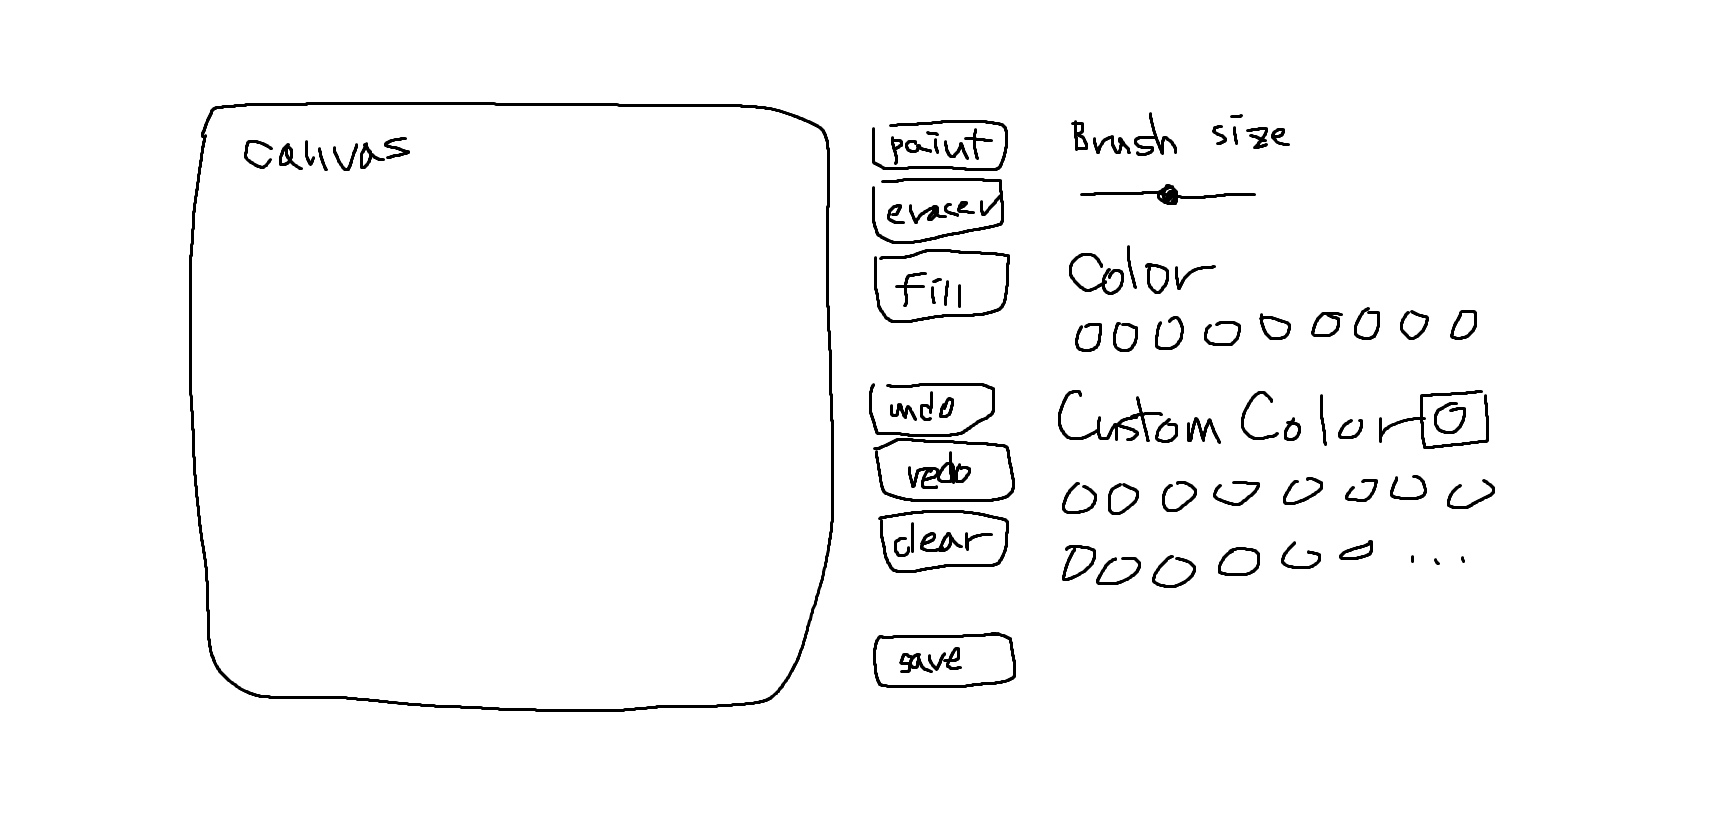
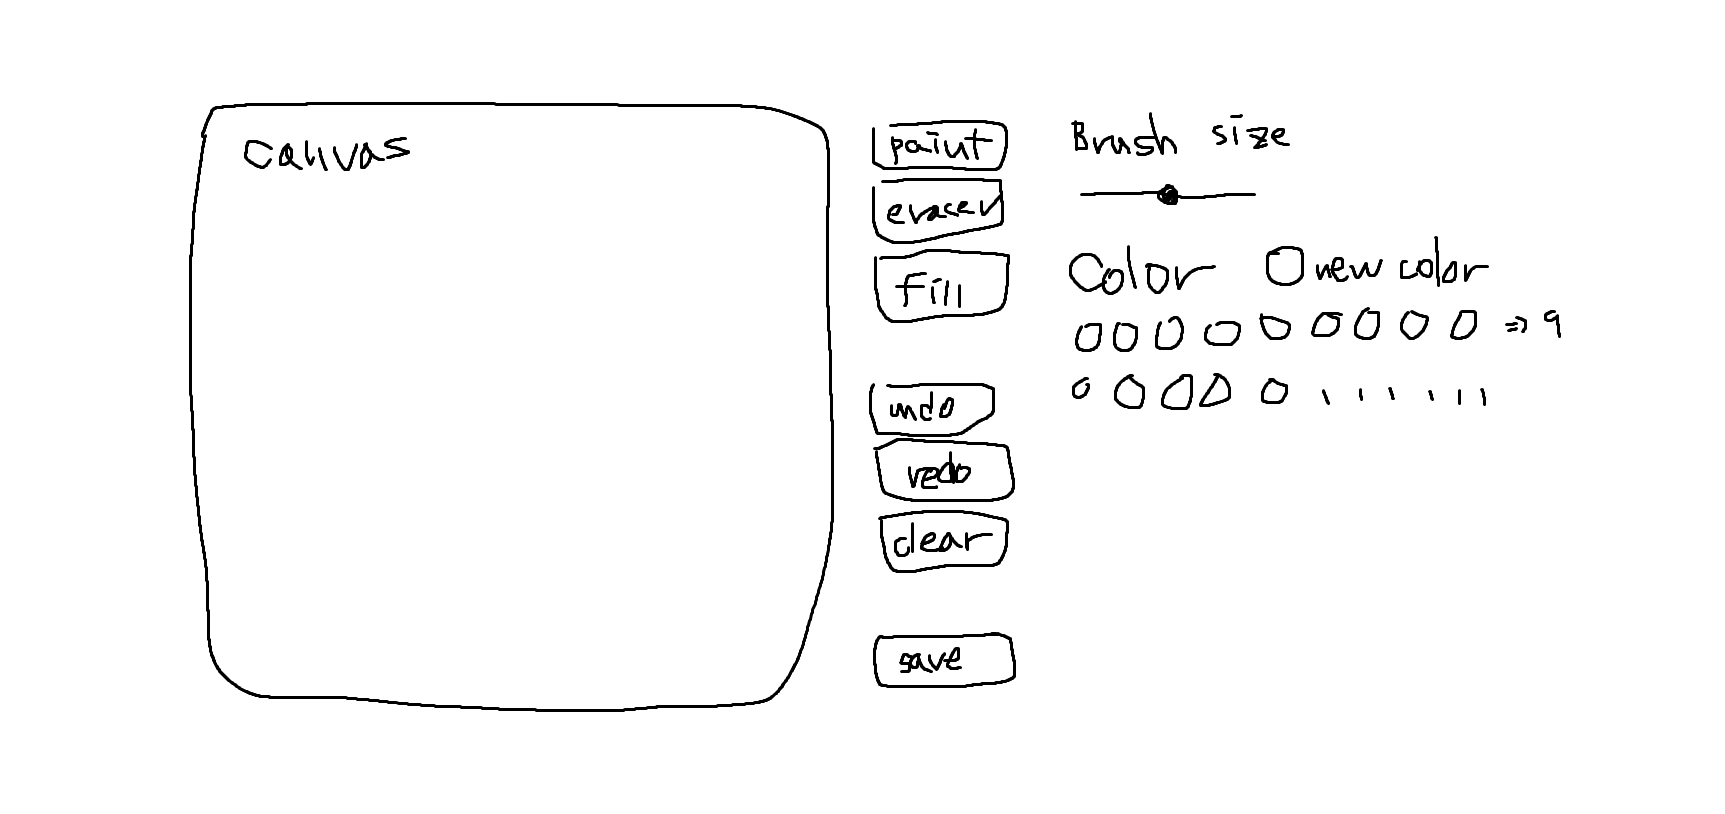
2021-08-31

diff --git a/index.html b/index.html
@@ -8,66 +8,77 @@
     <title>Paint Brush</title>
   </head>
   <body>
-    <canvas id="jsCanvas" class="canvas"></canvas>
-    <div class="controls">
-      <div class="controls_range">
-        <input
-          type="range"
-          id="jsRange"
-          min="0.1"
-          max="10"
-          value="5"
-          step="0.1"
-        />
-      </div>
-      <div class="controls_btns">
-        <button id="jsPaint">Paint</button>
-        <button id="jsEraser">Eraser</button>
-        <button id="jsFill">Fill</button>
-        <button id="jsSave">Save</button>
-        <button id="jsUndo">Undo</button>
-        <button id="jsRedo">Redo</button>
-        <button id="jsClear">Clear</button>
-      </div>
-      <div class="controls_colors" id="jsColors">
-        <div
-          class="controls_color jsColor"
-          style="background-color: #2c2c2c"
-        ></div>
-        <div
-          class="controls_color jsColor"
-          style="background-color: white"
-        ></div>
-        <div
-          class="controls_color jsColor"
-          style="background-color: #ff3b30"
-        ></div>
-        <div
-          class="controls_color jsColor"
-          style="background-color: #ff9500"
-        ></div>
-        <div
-          class="controls_color jsColor"
-          style="background-color: #ffcc00"
-        ></div>
-        <div
-          class="controls_color jsColor"
-          style="background-color: #4cd963"
-        ></div>
-        <div
-          class="controls_color jsColor"
-          style="background-color: #5ac8fa"
-        ></div>
-        <div
-          class="controls_color jsColor"
-          style="background-color: #0579ff"
-        ></div>
-        <div
-          class="controls_color jsColor"
-          style="background-color: #5856d6"
-        ></div>
-      </div>
-    </div>
+    <main>
+      <canvas id="jsCanvas" class="canvas"></canvas>
+      <article class="controls">
+        <section class="controls_btns">
+          <button id="jsPaint">Paint</button>
+          <button id="jsEraser">Eraser</button>
+          <button id="jsFill">Fill</button>
+          <button id="jsSave">Save</button>
+          <button id="jsUndo">Undo</button>
+          <button id="jsRedo">Redo</button>
+          <button id="jsClear">Clear</button>
+        </section>
+        <section class="controls_range">
+          <p>Brush size: 5.0</p>
+          <input
+            type="range"
+            id="jsRange"
+            min="0.1"
+            max="10"
+            value="5"
+            step="0.1"
+          />
+        </section>
+        <section class="controls_colors_section">
+          <p>Color</p>
+          <form id="color_picker_form">
+            <label>NEW color</label>
+            <input id="color_picker" type="color" />
+            <input id="color_picker_btn" type="submit" />
+          </form>
+          <div class="controls_colors" id="jsColors">
+            <div
+              class="controls_color jsColor"
+              style="background-color: #2c2c2c"
+            ></div>
+            <div
+              class="controls_color jsColor"
+              style="background-color: white"
+            ></div>
+            <div
+              class="controls_color jsColor"
+              style="background-color: #ff3b30"
+            ></div>
+            <div
+              class="controls_color jsColor"
+              style="background-color: #ff9500"
+            ></div>
+            <div
+              class="controls_color jsColor"
+              style="background-color: #ffcc00"
+            ></div>
+            <div
+              class="controls_color jsColor"
+              style="background-color: #4cd963"
+            ></div>
+            <div
+              class="controls_color jsColor"
+              style="background-color: #5ac8fa"
+            ></div>
+            <div
+              class="controls_color jsColor"
+              style="background-color: #0579ff"
+            ></div>
+            <div
+              class="controls_color jsColor"
+              style="background-color: #5856d6"
+            ></div>
+          </div>
+        </section>
+      </article>
+    </main>
     <script src="app.js"></script>
   </body>
 </html>

diff --git a/app.js b/app.js
@@ -5,6 +5,8 @@ let redoList = [];
 
 const canvas = document.getElementById("jsCanvas");
 const ctx = canvas.getContext("2d");
+const colorsDiv = document.getElementById("jsColors");
+const colorPickerForm = document.getElementById("color_picker_form");
 const colors = document.getElementsByClassName("jsColor");
 const range = document.getElementById("jsRange");
 const paintBtn = document.getElementById("jsPaint")
@@ -142,6 +144,28 @@ function handleClearClick() {
     ctx.restore();
 }
 
+function handleDeleteColor(event) {
+    const color = event.path[1];
+    color.remove();
+}
+
+function handleColorPickerSubmit(event) {
+    event.preventDefault();
+    const newColor = document.createElement("div");
+    const deleteBtn = document.createElement("div");
+    const colorPicker = document.getElementById("color_picker");
+    const color = colorPicker.value;
+    newColor.classList.add("controls_color");
+    newColor.classList.add("jsColor");
+    newColor.style.backgroundColor = color;
+    newColor.addEventListener("click", handleColorClick);
+    deleteBtn.innerText = "❌";
+    deleteBtn.classList.add(".new_color_delete_btn");
+    deleteBtn.addEventListener("click", handleDeleteColor);
+    newColor.appendChild(deleteBtn);
+    colorsDiv.appendChild(newColor);
+}
+
 if (canvas) {
     canvas.addEventListener("mousemove", onMouseMove);
     canvas.addEventListener("mousedown", startPainting);
@@ -149,6 +173,10 @@ if (canvas) {
     canvas.addEventListener("mouseleave", stopPainting);
     canvas.addEventListener("mousedown", handleCanvasFilling);
     canvas.addEventListener("contextmenu", handleCM);
+}
+
+if (colorPickerForm) {
+    colorPickerForm.addEventListener("submit", handleColorPickerSubmit);
 }
 
 if (colors) {

diff --git a/style.css b/style.css
@@ -10,6 +10,11 @@ body {
   padding: 30px 0;
 }
 
+main {
+  display: flex;
+  flex-direction: row;
+}
+
 .canvas {
   width: 700px;
   height: 700px;
@@ -21,8 +26,9 @@ body {
 
 .controls {
   margin-top: 20px;
-  display: flex;
-  flex-direction: column;
+  display: grid;
+  grid-template-columns: 1fr 9fr;
+  grid-template-rows: 2fr 5fr;
   align-items: center;
 }
 .controls .controls_range {
@@ -34,7 +40,8 @@ body {
 }
 
 .controls .controls_btns {
-  margin-bottom: 20px;
+  display: flex;
+  flex-direction: column;
 }
 .controls_btns button {
   all: unset;
@@ -58,11 +65,22 @@ body {
 .controls .controls_colors {
   display: flex;
   flex-direction: row;
+  flex-wrap: wrap;
+  gap: 0;
+  width: 450px;
 }
-.controls_colors .controls_color {
+
+.controls_color {
   width: 50px;
   height: 50px;
   border-radius: 25px;
   cursor: pointer;
   box-shadow: 0 4px 6px rgba(50, 50, 93, 0.11), 0 1px 3px rgba(0, 0, 0, 0.08);
+  text-align: right;
+}
+
+.new_color_delete_btn {
+  width: 10px;
+  height: 10px;
+  cursor: pointer;
 }
